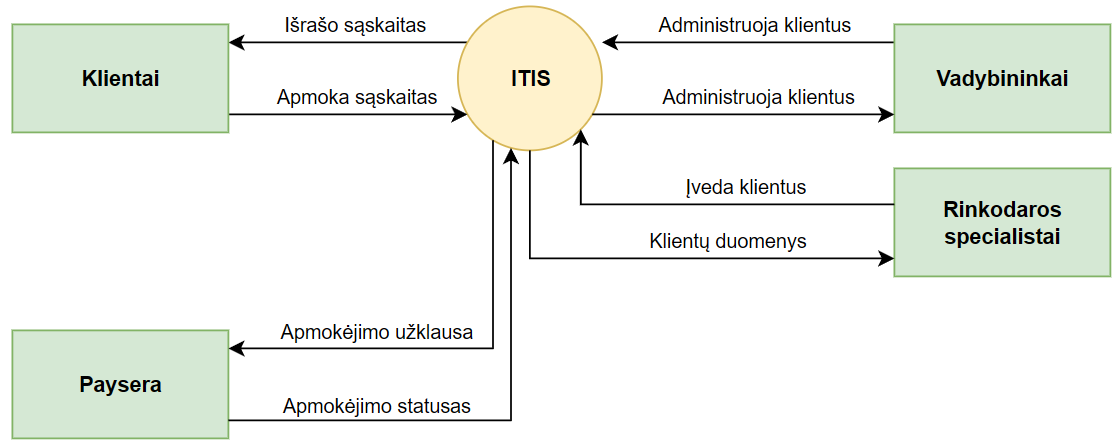
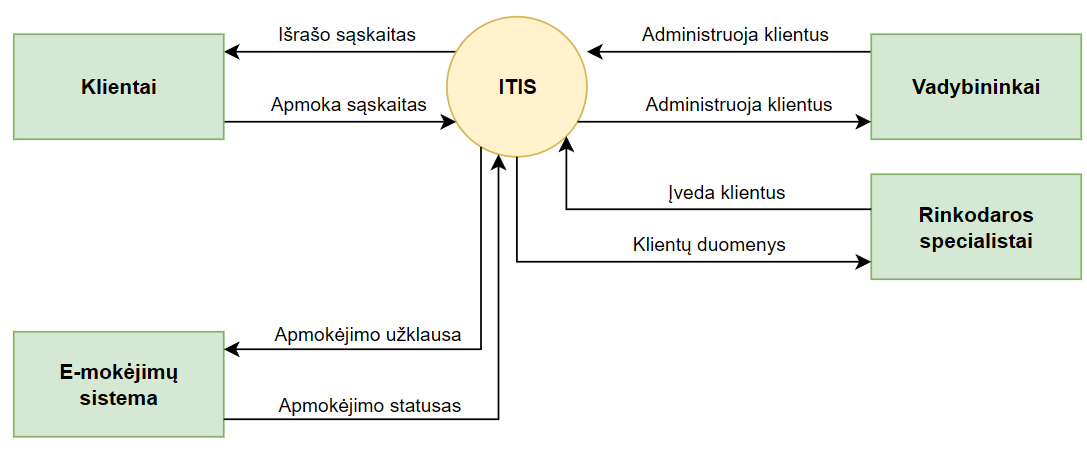
lab2 README

Changed region(s): [[0.0, 0.0312, 1.0, 1.0], [0.0, 0.0, 0.5161, 0.3125], [0.0607, 0.1562, 0.1518, 0.2188]]

diff --git a/docs/Programų sistemų architektūra ir projektavimas_lab2/README.md b/docs/Programų sistemų architektūra ir projektavimas_lab2/README.md
@@ -85,7 +85,7 @@ Interneto tiekėjo informacinė sistema (ITIS) skirta automatizuoti klientų duo
 | **Rinkodaros specialistai**                                                                                  | Atsakingi už paslaugų siūlymą esamiems klientams, naujų įvedimą        | Nori pritraukti daugiau pinigų į įmonę                       |
 | **Sistemos savininkas (tiekėjas)**                                                                           | Projekto vykdytojas                                                    | Siekia turėti patikimą, saugią ir prižiūrimą sistemą         |
 | **Programuotojai**                                                                                           | Programuoja sistemą                                                    | Siekia sukurti kitoms suinteresuotoms šalims tinkamą sistemą |
-| **Apmokėjimų sistema (Paysera)**                                                                             | Trečiosios šalies integracija                                          | Teikia saugius mokėjimus klientams                           |
+| **E-mokėjimų sistema (Paysera)**                                                                             | Trečiosios šalies integracija                                          | Teikia saugius mokėjimus klientams                           |
 
 # 3. Viepoints
 Pagal ISO/IEC 42010:2022 standartą, pasirinkti visi šie architektūriniai požiūriai _(angl. viewpoints)_, kurie padėjo sukurti ir struktūruoti ITIS architektūros vaizdus.  
